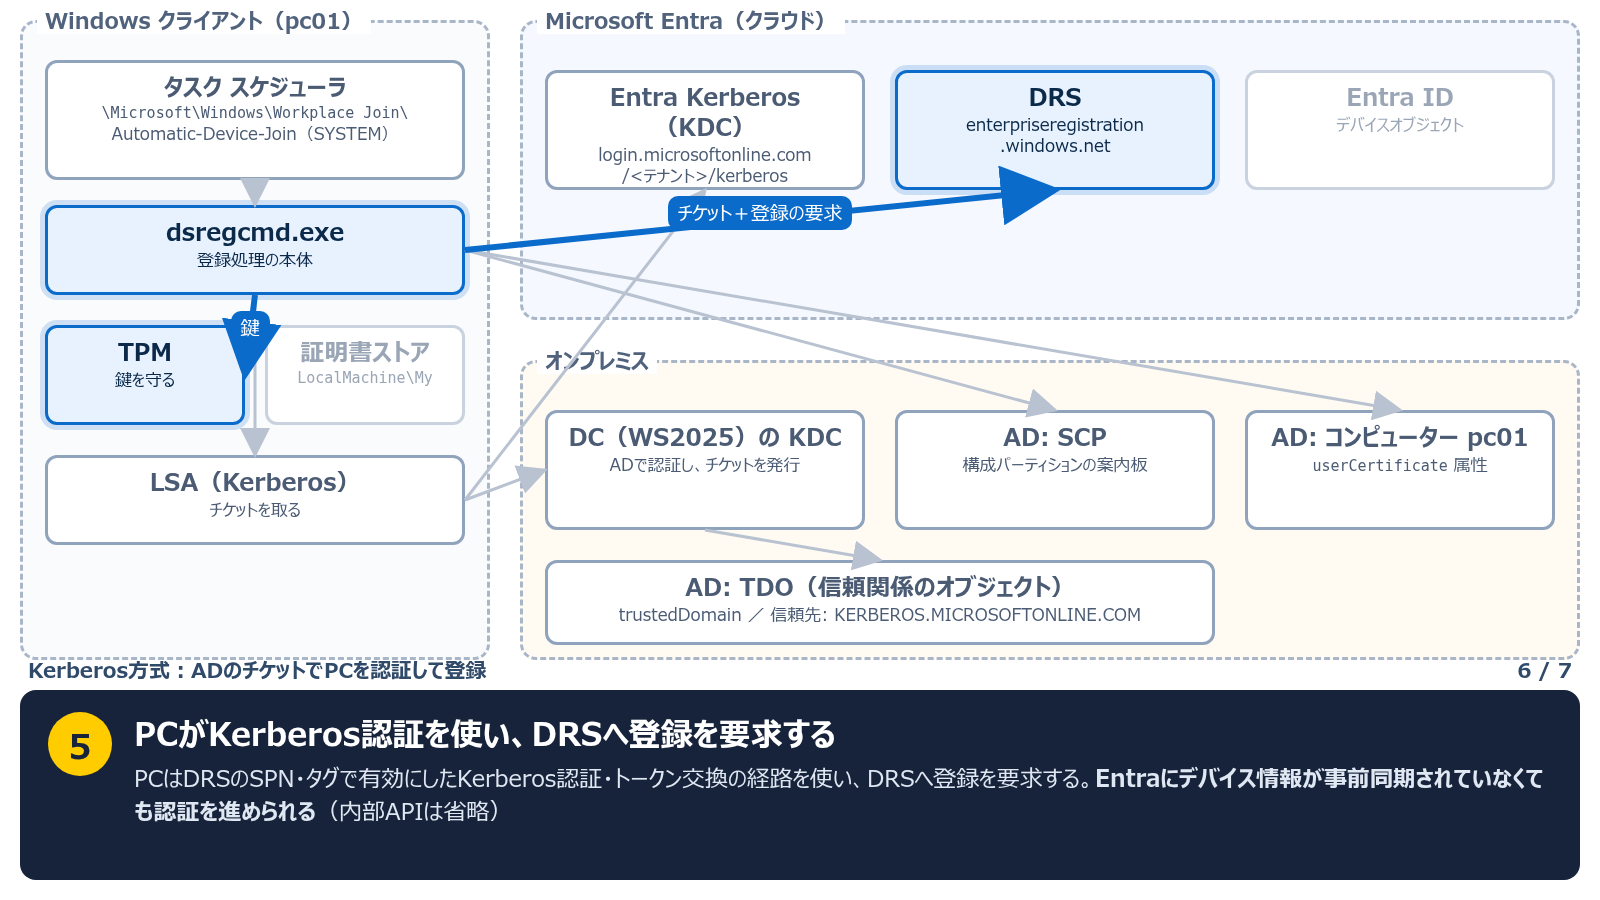
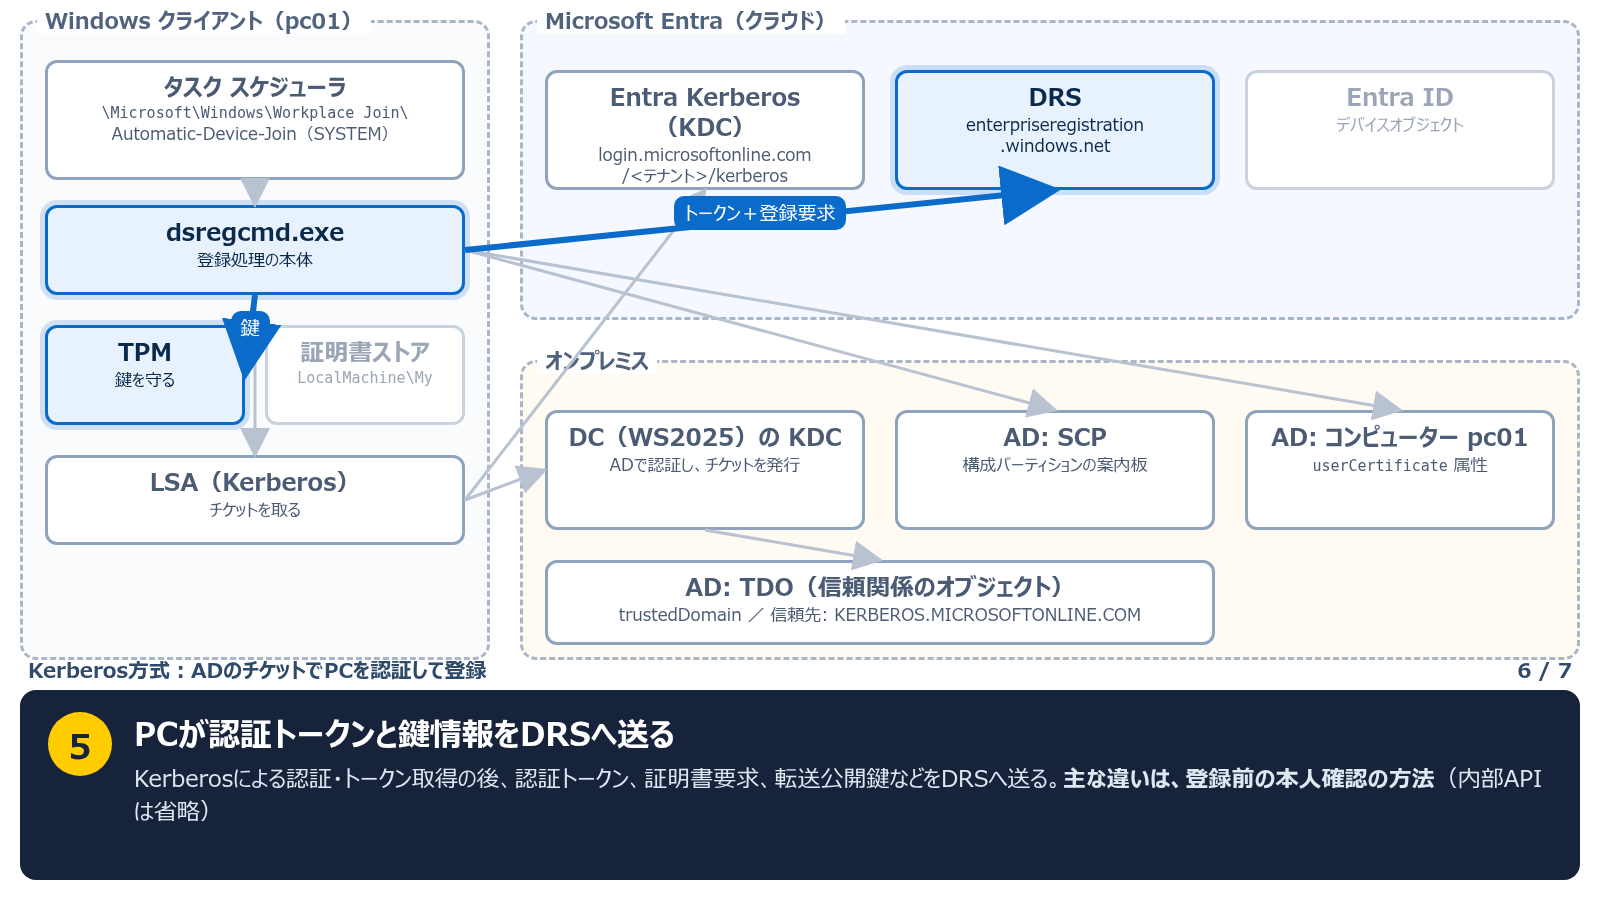
docs: separate authentication from the DRS registration request

Changed region(s): [[0.0938, 0.7778, 0.9688, 0.9333], [0.4062, 0.2178, 0.5312, 0.2489]]

diff --git a/HCCJP_79/session/frames/gen.py b/HCCJP_79/session/frames/gen.py
@@ -115,7 +115,7 @@ OLD = [
     {"n": "7", "title": "同期後の再試行で、PCがEntraに認証される", "desc": "PCのタスクが再試行する。Entraは同期済みの証明書情報と、PCの秘密鍵による証明を照合する。認証に成功したPCは、登録に使う<b>IDトークン</b>を取得する",
      "lit": ["task", "dsreg", "login"], "good": ["login"], "badge": {"login": "ID トークン"}, "arrows": [("task", "b", "dsreg", "t"), ("dsreg", "r", "login", "b", "証明書で認証")]},
     {"n": "8", "title": "PCがデバイス鍵を作り、DRSへ登録を要求する", "desc": "PCはTPMでデバイス鍵と転送鍵を用意する。デバイス証明書の要求、転送公開鍵、認証で得たIDトークンなどを<b>DRS（デバイス登録サービス）へ送る</b>",
-     "lit": ["tpm", "dsreg", "drs"], "arrows": [("dsreg", "b", "tpm", "r", "鍵"), ("dsreg", "r", "drs", "b", "登録の要求")]},
+     "lit": ["tpm", "dsreg", "drs"], "arrows": [("dsreg", "b", "tpm", "r", "鍵"), ("dsreg", "r", "drs", "b", "トークン＋登録要求")]},
     {"n": "9", "title": "PCがデバイス証明書を受け取り、登録を完了する", "desc": "DRSが発行したデバイス証明書を、PCがローカル証明書ストアへ保存する。登録後は<b>AD参加YES・Entra参加YES</b>となり、ハイブリッド参加が完了する",
      "lit": ["drs", "store", "entra"], "good": ["store", "entra"], "badge": {"store": "デバイス証明書", "entra": "pc01（登録済み）"}, "arrows": [("drs", "b", "store", "r", "証明書を返す")]},
 ]
@@ -129,8 +129,8 @@ NEW = [
      "lit": ["lsa", "kdc", "tdo"], "badge": {"kdc": "紹介チケットを発行", "tdo": "DCが信頼情報を参照"}, "arrows": [("lsa", "r", "kdc", "l", "Kerberos"), ("kdc", "b", "tdo", "t")]},
     {"n": "4", "title": "EntraがPCへDRS宛てのサービスチケットを発行する", "desc": "PCはAD発行の紹介チケットを、KDCプロキシ経由のHTTPSでEntraへ提示する。Entraは<b>DRS宛てのサービスチケット</b> <code>adrs/enterpriseregistration.windows.net</code> を発行する",
      "lit": ["lsa", "ekdc"], "good": ["ekdc"], "arrows": [("lsa", "r", "ekdc", "b", "KDC プロキシ（HTTPS）")]},
-    {"n": "5", "title": "PCがKerberos認証を使い、DRSへ登録を要求する", "desc": "PCはDRSのSPN・タグで有効にしたKerberos認証・トークン交換の経路を使い、DRSへ登録を要求する。<b>Entraにデバイス情報が事前同期されていなくても認証を進められる</b>（内部APIは省略）",
-     "lit": ["dsreg", "drs", "tpm"], "arrows": [("dsreg", "b", "tpm", "r", "鍵"), ("dsreg", "r", "drs", "b", "チケット＋登録の要求")]},
+    {"n": "5", "title": "PCが認証トークンと鍵情報をDRSへ送る", "desc": "Kerberosによる認証・トークン取得の後、認証トークン、証明書要求、転送公開鍵などをDRSへ送る。<b>主な違いは、登録前の本人確認の方法</b>（内部APIは省略）",
+     "lit": ["dsreg", "drs", "tpm"], "arrows": [("dsreg", "b", "tpm", "r", "鍵"), ("dsreg", "r", "drs", "b", "トークン＋登録要求")]},
     {"n": "6", "title": "DRSがデバイスを作り、PCの登録が完了する", "desc": "DRSはEntraにデバイスを作成し、PCへデバイス証明書を返す。PCは証明書を保存して登録を完了する。<b>登録前のデバイス同期待ちはない</b>（ラボでは約7秒／16〜18秒。保証値ではない）",
      "lit": ["drs", "store", "entra"], "good": ["store", "entra"], "badge": {"store": "デバイス証明書", "entra": "pc01（登録済み）"}, "arrows": [("drs", "r", "entra", "l", "作成"), ("drs", "b", "store", "r", "証明書を返す")]},
 ]

diff --git a/HCCJP_79/session/slides.md b/HCCJP_79/session/slides.md
@@ -207,6 +207,12 @@ https://learn.microsoft.com/en-us/entra/identity/authentication/configure-micros
 
 ![bg contain](frames/hj_new_05.png)
 
+<!--
+登録に使う認証トークンの取得と、DRSへのデバイス登録を区別する。登録要求にはトークンだけでなく証明書要求・転送公開鍵等を含む。旧方式との主な違いは登録前の本人確認経路であり、全HTTP APIや要求フィールドの同一性を実測したという意味ではない。
+https://learn.microsoft.com/en-us/entra/identity/devices/device-registration-how-it-works
+https://learn.microsoft.com/en-us/entra/identity/devices/how-to-hybrid-join-using-microsoft-entra-kerberos
+-->
+
 ---
 
 <!-- _header: "" -->
